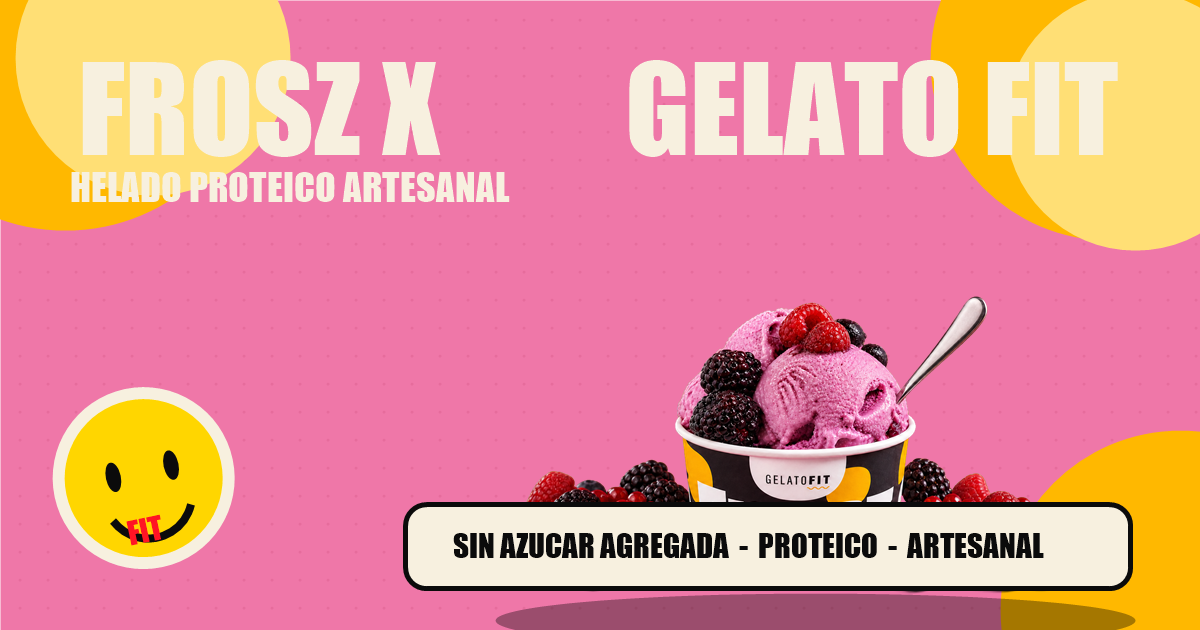
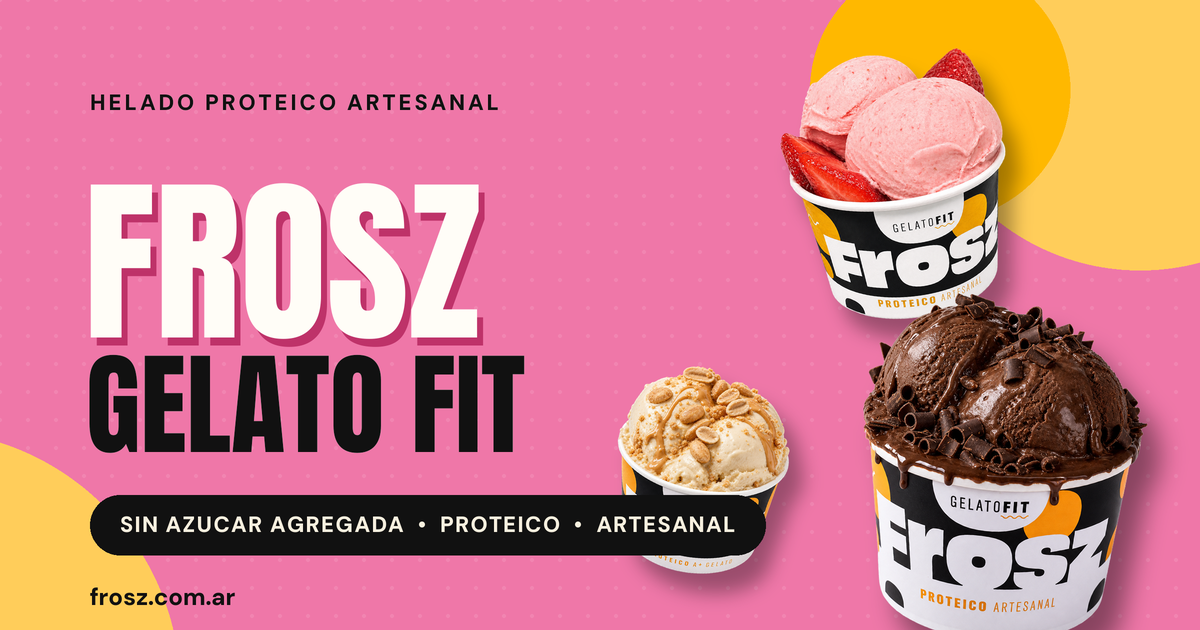
Nueva imagen OG y optimizacion de imagenes (-25.8MB)
- Imagen para compartir en WhatsApp/redes rediseñada: 3 potes reales, tipografia de marca, sin la "X" (coherente con el sitio actual)
- Convertidas a WebP las fotos de producto y decorativas pesadas (PNG/JPG de 1-2.5MB cada una), misma calidad visual con ~90% menos peso
- Eliminados ~7MB de imagenes huerfanas que no se usaban en ninguna pagina
- Agregado .chrome-mobile/.chrome-desktop al gitignore

diff --git a/script.js b/script.js
@@ -1,13 +1,13 @@
 const flavors = {
-  chocolate: { index: "01", name: "Chocolate", image: "flavor-chocolate.png", back: "CHOCO", front: "LATE", bg: "#e97cac", accent: "#f5b820", description: "Intenso, cremoso y listo para cambiarte el dia." },
-  ddl: { index: "02", name: "Dulce de leche", image: "flavor-ddl.png", back: "DULCE", front: "DE LECHE", bg: "#d49a66", accent: "#f7cf4d", description: "El clasico argentino, llevado a frecuencia fit." },
-  frutilla: { index: "03", name: "Frutilla", image: "flavor-frutilla.png", back: "FRUTI", front: "LLA", bg: "#ed789b", accent: "#f7d856", description: "Frutal, cremosa y siempre de buen humor." },
-  frutos: { index: "04", name: "Frutos del bosque", image: "flavor-frutos.png", back: "BERRY", front: "MOOD", bg: "#9d7ad2", accent: "#e84273", description: "Frutal, vibrante y con el punto justo de acidez." },
-  mani: { index: "05", name: "Crema de mani", image: "flavor-mani.png", back: "MANI", front: "POWER", bg: "#efaa46", accent: "#ec5668", description: "Cremosa, potente y peligrosamente cucharable." },
-  limon: { index: "06", name: "Mousse de limon", image: "flavor-limon.png", back: "MOUSSE", front: "LIMON", bg: "#f3dc68", accent: "#f4a629", description: "Aireada, citrica y refrescante hasta la ultima cucharada." },
-  vainilla: { index: "07", name: "Vainilla", image: "flavor-vainilla.png", back: "VAINI", front: "LLA", bg: "#efd9ac", accent: "#6f3f2d", description: "Suave, perfumada y con toda la cremosidad de un clasico." },
-  coco: { index: "08", name: "Coco", image: "flavor-coco.png", back: "COCO", front: "FRESH", bg: "#87c9df", accent: "#f7f0df", description: "Liviano, tropical y listo para bajar un cambio." },
-  banana: { index: "09", name: "Banana", image: "flavor-banana.png", back: "BANA", front: "NA", bg: "#f5c645", accent: "#e84884", description: "Dulce, suave y con energia de tarde soleada." }
+  chocolate: { index: "01", name: "Chocolate", image: "flavor-chocolate.webp", back: "CHOCO", front: "LATE", bg: "#e97cac", accent: "#f5b820", description: "Intenso, cremoso y listo para cambiarte el dia." },
+  ddl: { index: "02", name: "Dulce de leche", image: "flavor-ddl.webp", back: "DULCE", front: "DE LECHE", bg: "#d49a66", accent: "#f7cf4d", description: "El clasico argentino, llevado a frecuencia fit." },
+  frutilla: { index: "03", name: "Frutilla", image: "flavor-frutilla.webp", back: "FRUTI", front: "LLA", bg: "#ed789b", accent: "#f7d856", description: "Frutal, cremosa y siempre de buen humor." },
+  frutos: { index: "04", name: "Frutos del bosque", image: "flavor-frutos.webp", back: "BERRY", front: "MOOD", bg: "#9d7ad2", accent: "#e84273", description: "Frutal, vibrante y con el punto justo de acidez." },
+  mani: { index: "05", name: "Crema de mani", image: "flavor-mani.webp", back: "MANI", front: "POWER", bg: "#efaa46", accent: "#ec5668", description: "Cremosa, potente y peligrosamente cucharable." },
+  limon: { index: "06", name: "Mousse de limon", image: "flavor-limon.webp", back: "MOUSSE", front: "LIMON", bg: "#f3dc68", accent: "#f4a629", description: "Aireada, citrica y refrescante hasta la ultima cucharada." },
+  vainilla: { index: "07", name: "Vainilla", image: "flavor-vainilla.webp", back: "VAINI", front: "LLA", bg: "#efd9ac", accent: "#6f3f2d", description: "Suave, perfumada y con toda la cremosidad de un clasico." },
+  coco: { index: "08", name: "Coco", image: "flavor-coco.webp", back: "COCO", front: "FRESH", bg: "#87c9df", accent: "#f7f0df", description: "Liviano, tropical y listo para bajar un cambio." },
+  banana: { index: "09", name: "Banana", image: "flavor-banana.webp", back: "BANA", front: "NA", bg: "#f5c645", accent: "#e84884", description: "Dulce, suave y con energia de tarde soleada." }
 };
 
 const root = document.documentElement;
@@ -163,15 +163,15 @@ positionFlavorWheel();
 scheduleAutoplay();
 
 const showcaseFlavors = [
-  { key: "chocolate", name: "CHOCOLATE", tagline: "UN CLASICO QUE ENTRENA TODOS LOS DIAS", description: "CACAO INTENSO, TEXTURA CREMOSA Y TODO EL PLACER DE UNA CUCHARADA QUE VA AL FRENTE.", top: "CHOCO", bottom: "LATE", note: "PROFUNDO, CREMOSO Y CON FINAL BIEN CHOCOLATOSO.", ingredient: "showcase-chocolate.jpg", pot: "flavor-chocolate.png", bg: "#f4b5c7", ink: "#f41624" },
-  { key: "ddl", name: "DULCE DE LECHE", tagline: "EL CLASICO ARGENTINO CAMBIO DE FRECUENCIA", description: "DULCE DE LECHE PROFUNDO, TEXTURA ARTESANAL Y ESE SABOR DE SIEMPRE LLEVADO A SU VERSION FIT.", top: "DULCE", bottom: "DE LECHE", note: "BIEN NUESTRO, BIEN CREMOSO Y SIN DAR VUELTAS.", ingredient: "showcase-ddl.jpg", pot: "flavor-ddl.png", bg: "#dfb17f", ink: "#783b21" },
-  { key: "frutilla", name: "FRUTILLA", tagline: "COLOR ARRIBA, CUCHARA LISTA", description: "FRUTILLAS MADURAS, PERFIL FRESCO Y UNA TEXTURA ROSA, CREMOSA Y ALEGRE DESDE EL PRIMER BOCADO.", top: "FRUTI", bottom: "LLA", note: "FRUTAL, CREMOSA Y SIEMPRE DE BUEN HUMOR.", ingredient: "showcase-frutilla.jpg", pot: "flavor-frutilla.png", bg: "#f4b5c7", ink: "#f41624" },
-  { key: "frutos", name: "FRUTOS DEL BOSQUE", tagline: "UN MOOD FRUTAL CON PULSO PROPIO", description: "MORAS, FRAMBUESAS Y ARANDANOS EN UNA MEZCLA VIBRANTE, CREMOSA Y CON EL PUNTO JUSTO DE ACIDEZ.", top: "BERRY", bottom: "MOOD", note: "FRUTAL, INTENSO Y CON UNA ACIDEZ QUE DESPIERTA.", ingredient: "showcase-frutos.jpg", pot: "flavor-frutos.png", bg: "#d9bfdf", ink: "#8c245f" },
-  { key: "mani", name: "CREMA DE MANI", tagline: "POTENCIA CREMOSA EN MODO CUCHARA", description: "MANI TOSTADO, CUERPO INTENSO Y UNA CREMOSIDAD QUE CONVIERTE CADA BOCADO EN PLAN FAVORITO.", top: "MANI", bottom: "POWER", note: "TOSTADO, POTENTE Y PELIGROSAMENTE CUCHARABLE.", ingredient: "showcase-mani.jpg", pot: "flavor-mani.png", bg: "#f3ad4b", ink: "#a92832" },
-  { key: "limon", name: "MOUSSE DE LIMON", tagline: "FRESCURA AIREADA CON PULSO CITRICO", description: "MOUSSE DE LIMON, TEXTURA SEDOSA Y UN PERFIL CITRICO QUE DESPIERTA Y REFRESCA HASTA LA ULTIMA CUCHARADA.", top: "MOUSSE", bottom: "LIMON", note: "AIREADO, CITRICO Y LISTO PARA REFRESCAR EL DIA.", ingredient: "showcase-limon.jpg", pot: "flavor-limon.png", bg: "#f3dc68", ink: "#d8741e" },
-  { key: "vainilla", name: "VAINILLA", tagline: "EL CLASICO SUAVE QUE SIEMPRE VA", description: "VAINILLA PERFUMADA, TEXTURA CREMOSA Y ESE SABOR REDONDO QUE HACE QUE CADA CUCHARADA SE SIENTA COMO CASA.", top: "VAINI", bottom: "LLA", note: "SUAVE, AROMATICA Y CON CREMOSIDAD DE SOBRA.", ingredient: "showcase-vainilla.jpg", pot: "flavor-vainilla.png", bg: "#efd9ac", ink: "#6f3f2d" },
-  { key: "coco", name: "COCO", tagline: "UN VIAJE TROPICAL SIN SALIR DE TU RITMO", description: "COCO FRESCO, TEXTURA LIVIANA Y UNA CREMOSIDAD SUAVE PARA BAJAR UN CAMBIO SIN BAJAR EL SABOR.", top: "COCO", bottom: "FRESH", note: "LIVIANO, TROPICAL Y MUY DIFICIL DE SOLTAR.", ingredient: "showcase-coco.jpg", pot: "flavor-coco.png", bg: "#a8d9e6", ink: "#175b73" },
-  { key: "banana", name: "BANANA", tagline: "DULCE, SUAVE Y CON ENERGIA DE TARDE SOLEADA", description: "BANANA MADURA, TEXTURA SEDOSA Y UN PERFIL DULCE QUE SE SIENTE LIVIANO HASTA LA ULTIMA CUCHARADA.", top: "BANA", bottom: "NA", note: "CREMOSO, DORADO Y LISTO PARA LEVANTARTE EL DIA.", ingredient: "showcase-banana.jpg", pot: "flavor-banana.png", bg: "#f6d957", ink: "#ef4c35" }
+  { key: "chocolate", name: "CHOCOLATE", tagline: "UN CLASICO QUE ENTRENA TODOS LOS DIAS", description: "CACAO INTENSO, TEXTURA CREMOSA Y TODO EL PLACER DE UNA CUCHARADA QUE VA AL FRENTE.", top: "CHOCO", bottom: "LATE", note: "PROFUNDO, CREMOSO Y CON FINAL BIEN CHOCOLATOSO.", ingredient: "showcase-chocolate.webp", pot: "flavor-chocolate.webp", bg: "#f4b5c7", ink: "#f41624" },
+  { key: "ddl", name: "DULCE DE LECHE", tagline: "EL CLASICO ARGENTINO CAMBIO DE FRECUENCIA", description: "DULCE DE LECHE PROFUNDO, TEXTURA ARTESANAL Y ESE SABOR DE SIEMPRE LLEVADO A SU VERSION FIT.", top: "DULCE", bottom: "DE LECHE", note: "BIEN NUESTRO, BIEN CREMOSO Y SIN DAR VUELTAS.", ingredient: "showcase-ddl.webp", pot: "flavor-ddl.webp", bg: "#dfb17f", ink: "#783b21" },
+  { key: "frutilla", name: "FRUTILLA", tagline: "COLOR ARRIBA, CUCHARA LISTA", description: "FRUTILLAS MADURAS, PERFIL FRESCO Y UNA TEXTURA ROSA, CREMOSA Y ALEGRE DESDE EL PRIMER BOCADO.", top: "FRUTI", bottom: "LLA", note: "FRUTAL, CREMOSA Y SIEMPRE DE BUEN HUMOR.", ingredient: "showcase-frutilla.webp", pot: "flavor-frutilla.webp", bg: "#f4b5c7", ink: "#f41624" },
+  { key: "frutos", name: "FRUTOS DEL BOSQUE", tagline: "UN MOOD FRUTAL CON PULSO PROPIO", description: "MORAS, FRAMBUESAS Y ARANDANOS EN UNA MEZCLA VIBRANTE, CREMOSA Y CON EL PUNTO JUSTO DE ACIDEZ.", top: "BERRY", bottom: "MOOD", note: "FRUTAL, INTENSO Y CON UNA ACIDEZ QUE DESPIERTA.", ingredient: "showcase-frutos.webp", pot: "flavor-frutos.webp", bg: "#d9bfdf", ink: "#8c245f" },
+  { key: "mani", name: "CREMA DE MANI", tagline: "POTENCIA CREMOSA EN MODO CUCHARA", description: "MANI TOSTADO, CUERPO INTENSO Y UNA CREMOSIDAD QUE CONVIERTE CADA BOCADO EN PLAN FAVORITO.", top: "MANI", bottom: "POWER", note: "TOSTADO, POTENTE Y PELIGROSAMENTE CUCHARABLE.", ingredient: "showcase-mani.webp", pot: "flavor-mani.webp", bg: "#f3ad4b", ink: "#a92832" },
+  { key: "limon", name: "MOUSSE DE LIMON", tagline: "FRESCURA AIREADA CON PULSO CITRICO", description: "MOUSSE DE LIMON, TEXTURA SEDOSA Y UN PERFIL CITRICO QUE DESPIERTA Y REFRESCA HASTA LA ULTIMA CUCHARADA.", top: "MOUSSE", bottom: "LIMON", note: "AIREADO, CITRICO Y LISTO PARA REFRESCAR EL DIA.", ingredient: "showcase-limon.jpg", pot: "flavor-limon.webp", bg: "#f3dc68", ink: "#d8741e" },
+  { key: "vainilla", name: "VAINILLA", tagline: "EL CLASICO SUAVE QUE SIEMPRE VA", description: "VAINILLA PERFUMADA, TEXTURA CREMOSA Y ESE SABOR REDONDO QUE HACE QUE CADA CUCHARADA SE SIENTA COMO CASA.", top: "VAINI", bottom: "LLA", note: "SUAVE, AROMATICA Y CON CREMOSIDAD DE SOBRA.", ingredient: "showcase-vainilla.jpg", pot: "flavor-vainilla.webp", bg: "#efd9ac", ink: "#6f3f2d" },
+  { key: "coco", name: "COCO", tagline: "UN VIAJE TROPICAL SIN SALIR DE TU RITMO", description: "COCO FRESCO, TEXTURA LIVIANA Y UNA CREMOSIDAD SUAVE PARA BAJAR UN CAMBIO SIN BAJAR EL SABOR.", top: "COCO", bottom: "FRESH", note: "LIVIANO, TROPICAL Y MUY DIFICIL DE SOLTAR.", ingredient: "showcase-coco.webp", pot: "flavor-coco.webp", bg: "#a8d9e6", ink: "#175b73" },
+  { key: "banana", name: "BANANA", tagline: "DULCE, SUAVE Y CON ENERGIA DE TARDE SOLEADA", description: "BANANA MADURA, TEXTURA SEDOSA Y UN PERFIL DULCE QUE SE SIENTE LIVIANO HASTA LA ULTIMA CUCHARADA.", top: "BANA", bottom: "NA", note: "CREMOSO, DORADO Y LISTO PARA LEVANTARTE EL DIA.", ingredient: "showcase-banana.webp", pot: "flavor-banana.webp", bg: "#f6d957", ink: "#ef4c35" }
 ];
 
 showcaseFlavors.forEach(({ ingredient, pot }) => {

diff --git a/index.html b/index.html
@@ -70,9 +70,9 @@
       href="https://fonts.googleapis.com/css2?family=Anton&family=Archivo+Black&family=DM+Sans:wght@400;500;600;700&display=swap"
       rel="stylesheet"
     />
-    <link rel="stylesheet" href="./styles.css?v=20260909-seo" />
-    <script src="./stores-data.js?v=20260909-seo" defer></script>
-    <script src="./script.js?v=20260909-seo" defer></script>
+    <link rel="stylesheet" href="./styles.css?v=20260909-webp" />
+    <script src="./stores-data.js?v=20260909-webp" defer></script>
+    <script src="./script.js?v=20260909-webp" defer></script>
   </head>
   <body>
     <a class="skip-link" href="#contenido">Saltar al contenido</a>
@@ -136,21 +136,21 @@
               <span class="ingredient-piece ingredient-accent ingredient-piece-8"></span>
             </div>
             <div class="flavor-image-wrap">
-              <img id="flavor-image" src="./public/assets/web/flavor-chocolate.png" alt="Pote Frosz sabor Chocolate" />
+              <img id="flavor-image" src="./public/assets/web/flavor-chocolate.webp" alt="Pote Frosz sabor Chocolate" />
             </div>
           </div>
 
           <div class="flavor-arc" aria-hidden="true"></div>
           <div class="flavor-tabs" role="list" aria-label="Seleccionar sabor">
-            <button class="flavor-tab is-active" type="button" data-key="chocolate" aria-label="Chocolate" aria-pressed="true"><img src="./public/assets/web/flavor-chocolate.png" alt="" /><span>Chocolate</span></button>
-            <button class="flavor-tab" type="button" data-key="ddl" aria-label="Dulce de leche" aria-pressed="false"><img src="./public/assets/web/flavor-ddl.png" alt="" /><span>Dulce</span></button>
-            <button class="flavor-tab" type="button" data-key="frutilla" aria-label="Frutilla" aria-pressed="false"><img src="./public/assets/web/flavor-frutilla.png" alt="" /><span>Frutilla</span></button>
-            <button class="flavor-tab" type="button" data-key="frutos" aria-label="Frutos del bosque" aria-pressed="false"><img src="./public/assets/web/flavor-frutos.png" alt="" /><span>Frutos</span></button>
-            <button class="flavor-tab" type="button" data-key="mani" aria-label="Crema de mani" aria-pressed="false"><img src="./public/assets/web/flavor-mani.png" alt="" /><span>Mani</span></button>
-            <button class="flavor-tab" type="button" data-key="limon" aria-label="Mousse de limon" aria-pressed="false"><img src="./public/assets/web/flavor-limon.png" alt="" /><span>Limon</span></button>
-            <button class="flavor-tab" type="button" data-key="vainilla" aria-label="Vainilla" aria-pressed="false"><img src="./public/assets/web/flavor-vainilla.png" alt="" /><span>Vainilla</span></button>
-            <button class="flavor-tab" type="button" data-key="coco" aria-label="Coco" aria-pressed="false"><img src="./public/assets/web/flavor-coco.png" alt="" /><span>Coco</span></button>
-            <button class="flavor-tab" type="button" data-key="banana" aria-label="Banana" aria-pressed="false"><img src="./public/assets/web/flavor-banana.png" alt="" /><span>Banana</span></button>
+            <button class="flavor-tab is-active" type="button" data-key="chocolate" aria-label="Chocolate" aria-pressed="true"><img src="./public/assets/web/flavor-chocolate.webp" alt="" /><span>Chocolate</span></button>
+            <button class="flavor-tab" type="button" data-key="ddl" aria-label="Dulce de leche" aria-pressed="false"><img src="./public/assets/web/flavor-ddl.webp" alt="" /><span>Dulce</span></button>
+            <button class="flavor-tab" type="button" data-key="frutilla" aria-label="Frutilla" aria-pressed="false"><img src="./public/assets/web/flavor-frutilla.webp" alt="" /><span>Frutilla</span></button>
+            <button class="flavor-tab" type="button" data-key="frutos" aria-label="Frutos del bosque" aria-pressed="false"><img src="./public/assets/web/flavor-frutos.webp" alt="" /><span>Frutos</span></button>
+            <button class="flavor-tab" type="button" data-key="mani" aria-label="Crema de mani" aria-pressed="false"><img src="./public/assets/web/flavor-mani.webp" alt="" /><span>Mani</span></button>
+            <button class="flavor-tab" type="button" data-key="limon" aria-label="Mousse de limon" aria-pressed="false"><img src="./public/assets/web/flavor-limon.webp" alt="" /><span>Limon</span></button>
+            <button class="flavor-tab" type="button" data-key="vainilla" aria-label="Vainilla" aria-pressed="false"><img src="./public/assets/web/flavor-vainilla.webp" alt="" /><span>Vainilla</span></button>
+            <button class="flavor-tab" type="button" data-key="coco" aria-label="Coco" aria-pressed="false"><img src="./public/assets/web/flavor-coco.webp" alt="" /><span>Coco</span></button>
+            <button class="flavor-tab" type="button" data-key="banana" aria-label="Banana" aria-pressed="false"><img src="./public/assets/web/flavor-banana.webp" alt="" /><span>Banana</span></button>
           </div>
           <p class="flavor-hint">TOCA UN POTE<br />Y CAMBIA LA FRECUENCIA <span aria-hidden="true">&#8599;</span></p>
           <div class="flavor-controls" aria-label="Controles del carrusel de sabores">
@@ -228,16 +228,16 @@
 
           <div class="showcase-rail" aria-live="polite">
             <figure class="showcase-peek showcase-peek-prev" aria-hidden="true">
-              <img id="showcase-peek-prev" src="./public/assets/web/showcase-frutilla.jpg" alt="" />
+              <img id="showcase-peek-prev" src="./public/assets/web/showcase-frutilla.webp" alt="" />
             </figure>
 
             <figure class="showcase-scene">
-              <img class="showcase-ingredient" id="showcase-ingredient" src="./public/assets/web/showcase-chocolate.jpg" alt="Chocolate cremoso" />
-              <img class="showcase-pot" id="showcase-pot" src="./public/assets/web/flavor-chocolate.png" alt="Pote Frosz sabor Chocolate" />
+              <img class="showcase-ingredient" id="showcase-ingredient" src="./public/assets/web/showcase-chocolate.webp" alt="Chocolate cremoso" />
+              <img class="showcase-pot" id="showcase-pot" src="./public/assets/web/flavor-chocolate.webp" alt="Pote Frosz sabor Chocolate" />
             </figure>
 
             <figure class="showcase-peek showcase-peek-next" aria-hidden="true">
-              <img id="showcase-peek-next" src="./public/assets/web/showcase-banana.jpg" alt="" />
+              <img id="showcase-peek-next" src="./public/assets/web/showcase-banana.webp" alt="" />
             </figure>
           </div>
 
@@ -265,7 +265,7 @@
       </section>
 
       <section class="campaign-break" id="campana" aria-labelledby="campaign-title">
-        <img src="./public/assets/web/campaign-hero.png" alt="Pote de helado Frosz de frutilla en una escena rosa y amarilla" loading="lazy" />
+        <img src="./public/assets/web/campaign-hero.webp" alt="Pote de helado Frosz de frutilla en una escena rosa y amarilla" loading="lazy" />
         <div class="campaign-copy reveal">
           <p class="eyebrow">Tu postre, tu ritmo</p>
           <h2 id="campaign-title">ENTRENA.<br />DISFRUTA.<br />REPETI.</h2>
@@ -541,7 +541,7 @@
           <p class="sr-only">Sumate al newsletter de Frosz y enterate primero de nuevos sabores, puntos de venta y drops helados.</p>
 
           <div class="newsletter-product" aria-hidden="true">
-            <img src="./public/assets/web/newsletter-frutos-cutout-v2.png" alt="" loading="lazy" />
+            <img src="./public/assets/web/newsletter-frutos-cutout-v2.webp" alt="" loading="lazy" />
           </div>
 
           <form class="newsletter-form" id="newsletter-form" novalidate>

diff --git a/styles.css b/styles.css
@@ -250,13 +250,13 @@ button { color: inherit; font: inherit; }
 .flavor-hero.is-switching .flavor-image-wrap { opacity: 0; filter: blur(4px); transform: translateY(29%) scale(.72) rotate(-4deg); }
 .flavor-hero.is-entering .flavor-image-wrap { animation: flavorHeroEnter 1.18s cubic-bezier(.16,1,.3,1); }
 .ingredient-burst { --ingredient-position: 0% 0%; position: absolute; z-index: 3; inset: 0; overflow: hidden; pointer-events: none; }
-.ingredient-piece { --piece-size: clamp(48px, 5.8vw, 88px); --piece-rotate: 0deg; --burst-x: 0vw; --burst-y: 0vh; --float-x: 7px; --float-y: -10px; --float-time: 7.5s; position: absolute; width: var(--piece-size); aspect-ratio: 1; background: url("./public/assets/web/ingredient-atlas.png") var(--ingredient-position) / 300% 300% no-repeat; opacity: 0; filter: drop-shadow(0 7px 6px rgba(48,26,28,.18)); will-change: transform, opacity; }
+.ingredient-piece { --piece-size: clamp(48px, 5.8vw, 88px); --piece-rotate: 0deg; --burst-x: 0vw; --burst-y: 0vh; --float-x: 7px; --float-y: -10px; --float-time: 7.5s; position: absolute; width: var(--piece-size); aspect-ratio: 1; background: url("./public/assets/web/ingredient-atlas.webp") var(--ingredient-position) / 300% 300% no-repeat; opacity: 0; filter: drop-shadow(0 7px 6px rgba(48,26,28,.18)); will-change: transform, opacity; }
 .ingredient-piece-1 { left: 3%; top: 43%; --piece-size: clamp(54px, 6.2vw, 92px); --piece-rotate: -19deg; --burst-x: 46vw; --burst-y: 10vh; --float-x: 8px; --float-y: -11px; --float-time: 7.8s; }
 .ingredient-piece-2 { left: 20%; top: 67%; --piece-size: clamp(40px, 4.7vw, 70px); --piece-rotate: 24deg; --burst-x: 30vw; --burst-y: -12vh; --float-x: -7px; --float-y: -9px; --float-time: 6.9s; }
 .ingredient-piece-3 { left: 34%; top: 36%; --piece-size: clamp(34px, 3.8vw, 58px); --piece-rotate: -8deg; --burst-x: 16vw; --burst-y: 17vh; --float-x: 5px; --float-y: 9px; --float-time: 8.6s; }
 .ingredient-piece-4 { right: 19%; top: 37%; --piece-size: clamp(44px, 5vw, 74px); --piece-rotate: 16deg; --burst-x: -30vw; --burst-y: 16vh; --float-x: -8px; --float-y: 8px; --float-time: 7.2s; }
 .ingredient-piece-5 { right: 3.5%; top: 62%; --piece-size: clamp(50px, 5.6vw, 84px); --piece-rotate: -27deg; --burst-x: -46vw; --burst-y: -8vh; --float-x: 7px; --float-y: -8px; --float-time: 8.1s; }
-.ingredient-accent { background-image: url("./public/assets/web/ingredient-accents.png"); filter: drop-shadow(0 9px 8px rgba(48,26,28,.2)); }
+.ingredient-accent { background-image: url("./public/assets/web/ingredient-accents.webp"); filter: drop-shadow(0 9px 8px rgba(48,26,28,.2)); }
 .ingredient-piece-6 { left: 8%; top: 31%; --piece-size: clamp(76px, 8.8vw, 126px); --piece-rotate: 14deg; --burst-x: 42vw; --burst-y: 20vh; --float-x: -9px; --float-y: 12px; --float-time: 9.1s; }
 .ingredient-piece-7 { right: 25%; top: 69%; --piece-size: clamp(68px, 7.6vw, 110px); --piece-rotate: -21deg; --burst-x: -25vw; --burst-y: -17vh; --float-x: 10px; --float-y: -11px; --float-time: 8.4s; }
 .ingredient-piece-8 { right: 3%; top: 46%; --piece-size: clamp(72px, 8.2vw, 118px); --piece-rotate: 28deg; --burst-x: -47vw; --burst-y: 5vh; --float-x: -8px; --float-y: -12px; --float-time: 9.6s; }

diff --git a/contacto.html b/contacto.html
@@ -56,8 +56,8 @@
     <link rel="preconnect" href="https://fonts.googleapis.com" />
     <link rel="preconnect" href="https://fonts.gstatic.com" crossorigin />
     <link href="https://fonts.googleapis.com/css2?family=Anton&family=Archivo+Black&family=DM+Sans:wght@400;500;600;700&display=swap" rel="stylesheet" />
-    <link rel="stylesheet" href="./styles.css?v=20260909-seo" />
-    <script src="./contacto.js?v=20260909-seo" defer></script>
+    <link rel="stylesheet" href="./styles.css?v=20260909-webp" />
+    <script src="./contacto.js?v=20260909-webp" defer></script>
   </head>
   <body class="contact-page">
     <a class="skip-link" href="#contenido">Saltar al contenido</a>
